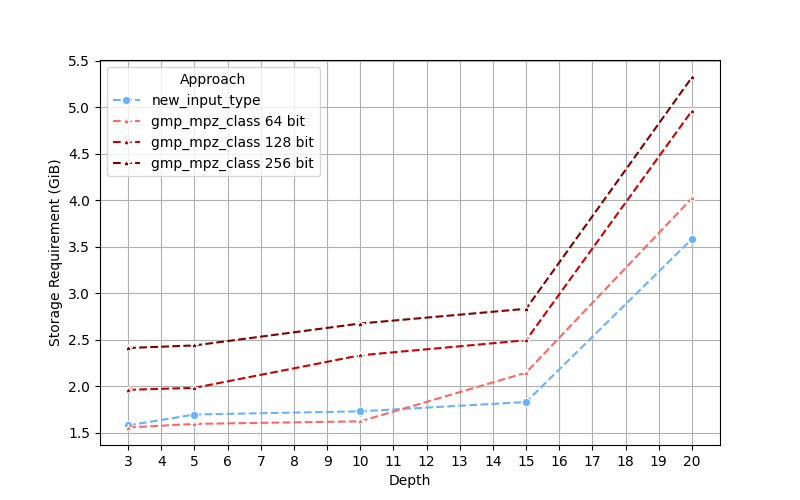
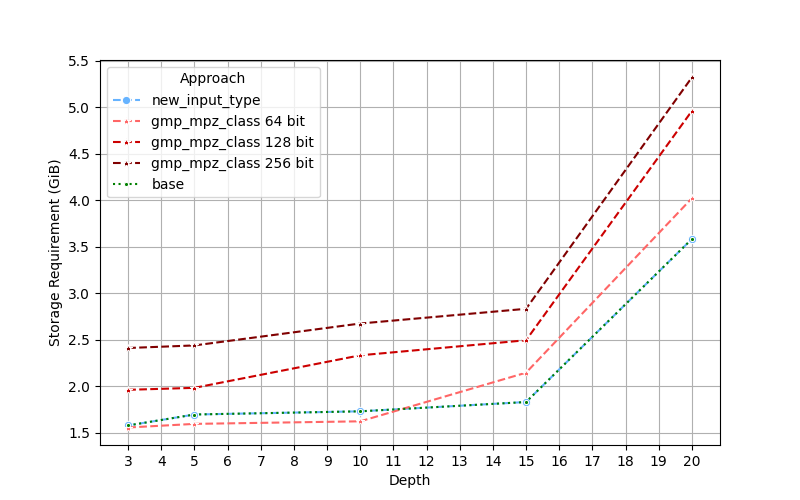
Grafiken überarbeitet

diff --git a/plots/code/wall_clock_time_preproc.py b/plots/code/wall_clock_time_preproc.py
@@ -21,6 +21,12 @@ df0 = pd.DataFrame({
     "Approach": "new_input_type"
 })
 
+df_base = pd.DataFrame({
+    "x":[x1,x2,x3,x4, x5],
+    "y":[y1,y2,y3,y4, y5],
+    "Approach": "base"
+})
+
 y1 = 1.5568
 y2 = 1.5957
 y3 = 1.6233
@@ -58,6 +64,14 @@ df5 = pd.DataFrame({
 })
 
 plt.figure(figsize=(8, 5))
+
+sns.lineplot(data=df0, x="x", y="y", hue="Approach", marker="o", linestyle="dashed", palette=["#66b3ff"])
+
+sns.lineplot(data=df3, x="x", y="y", hue="Approach", marker="*", linestyle="dashed", palette=["#ff6666"])
+sns.lineplot(data=df4, x="x", y="y", hue="Approach", marker="*", linestyle="dashed", palette=["#cc0000"])
+sns.lineplot(data=df5, x="x", y="y", hue="Approach", marker="*", linestyle="dashed", palette=["#800000"])
+
+sns.lineplot(data=df_base, x="x", y="y", hue="Approach", marker=".", linestyle="dotted", palette=["Green"])
 
 sns.set_style("ticks")
 plt.grid(axis="y")

diff --git a/plots/code/preproc_storage_requirements.py b/plots/code/preproc_storage_requirements.py
@@ -23,6 +23,12 @@ df0 = pd.DataFrame({
     "Approach": "new_input_type"
 })
 
+df_base = pd.DataFrame({
+    "x":[x1,x2,x3,x4, x5],
+    "y":[y1,y2,y3,y4, y5],
+    "Approach": "base"
+})
+
 y1 = 1.5568
 y2 = 1.5957
 y3 = 1.6233
@@ -65,6 +71,8 @@ sns.lineplot(data=df0, x="x", y="y", hue="Approach", marker="o", linestyle="dash
 sns.lineplot(data=df3, x="x", y="y", hue="Approach", marker="*", linestyle="dashed", palette=["#ff6666"])
 sns.lineplot(data=df4, x="x", y="y", hue="Approach", marker="*", linestyle="dashed", palette=["#cc0000"])
 sns.lineplot(data=df5, x="x", y="y", hue="Approach", marker="*", linestyle="dashed", palette=["#800000"])
+
+sns.lineplot(data=df_base, x="x", y="y", hue="Approach", marker=".", linestyle="dotted", palette=["Green"])
 
 sns.set_style("ticks")
 plt.grid(axis="y")

diff --git a/plots/code/lamport_clock_preproc.py b/plots/code/lamport_clock_preproc.py
@@ -23,7 +23,7 @@ df8 = pd.DataFrame({
     "Approach": "gmp_mpz_class"
 })
 
-df9 = pd.DataFrame({
+df_base = pd.DataFrame({
     "x":[x1,x2,x3,x4,x5],
     "y":[8,12,22,32,42],
     "Approach":"base"
@@ -32,7 +32,7 @@ df9 = pd.DataFrame({
 plt.figure(figsize=(8, 5))
 sns.lineplot(data=df7, x="x", y="y", hue="Approach", marker="o", linestyle="dashed", palette=["Blue"])
 sns.lineplot(data=df8, x="x", y="y", hue="Approach", marker="*", linestyle="dashed", palette=["Red"])
-sns.lineplot(data=df9, x="x", y="y", hue="Approach", marker="*", linestyle="dashed", palette=["Red"])
+sns.lineplot(data=df_base, x="x", y="y", hue="Approach", marker=".", linestyle="dotted", palette=["Green"])
 
 
 sns.set_style("ticks")
